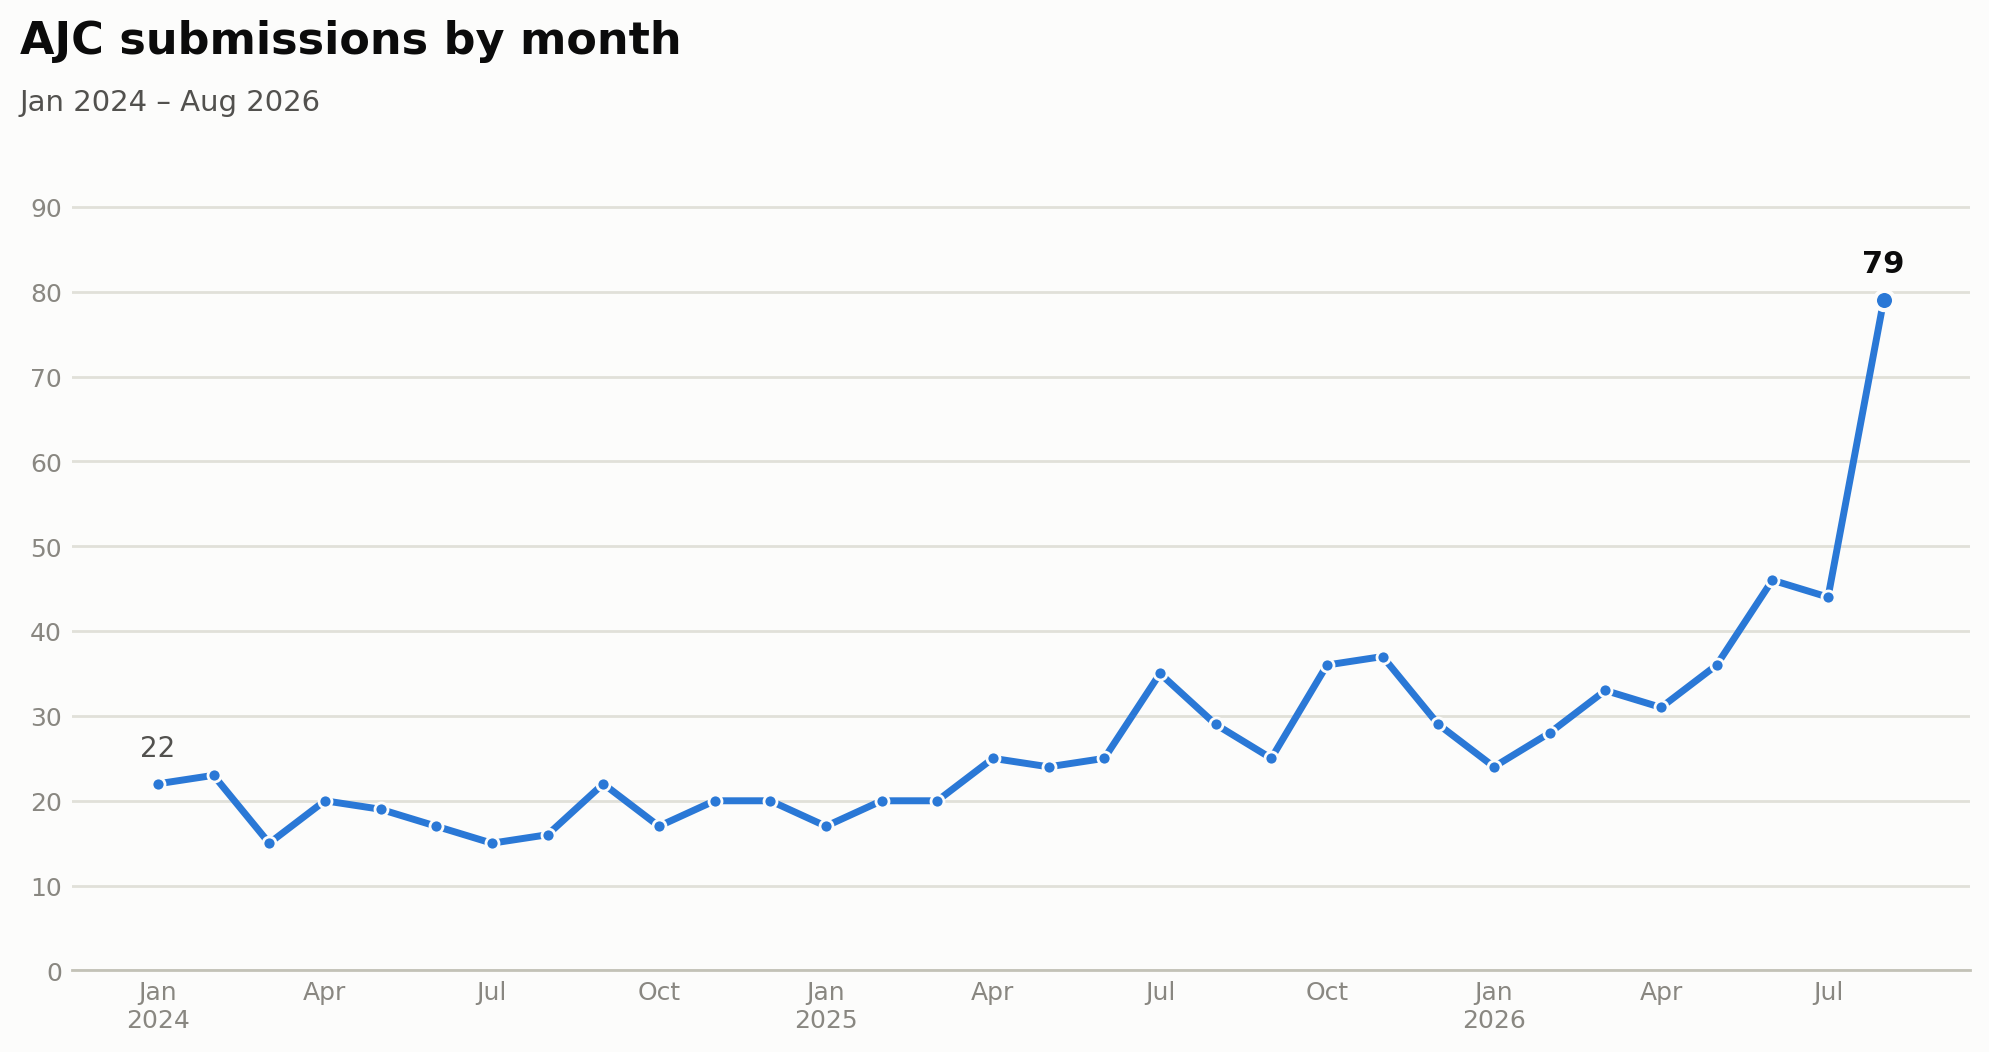
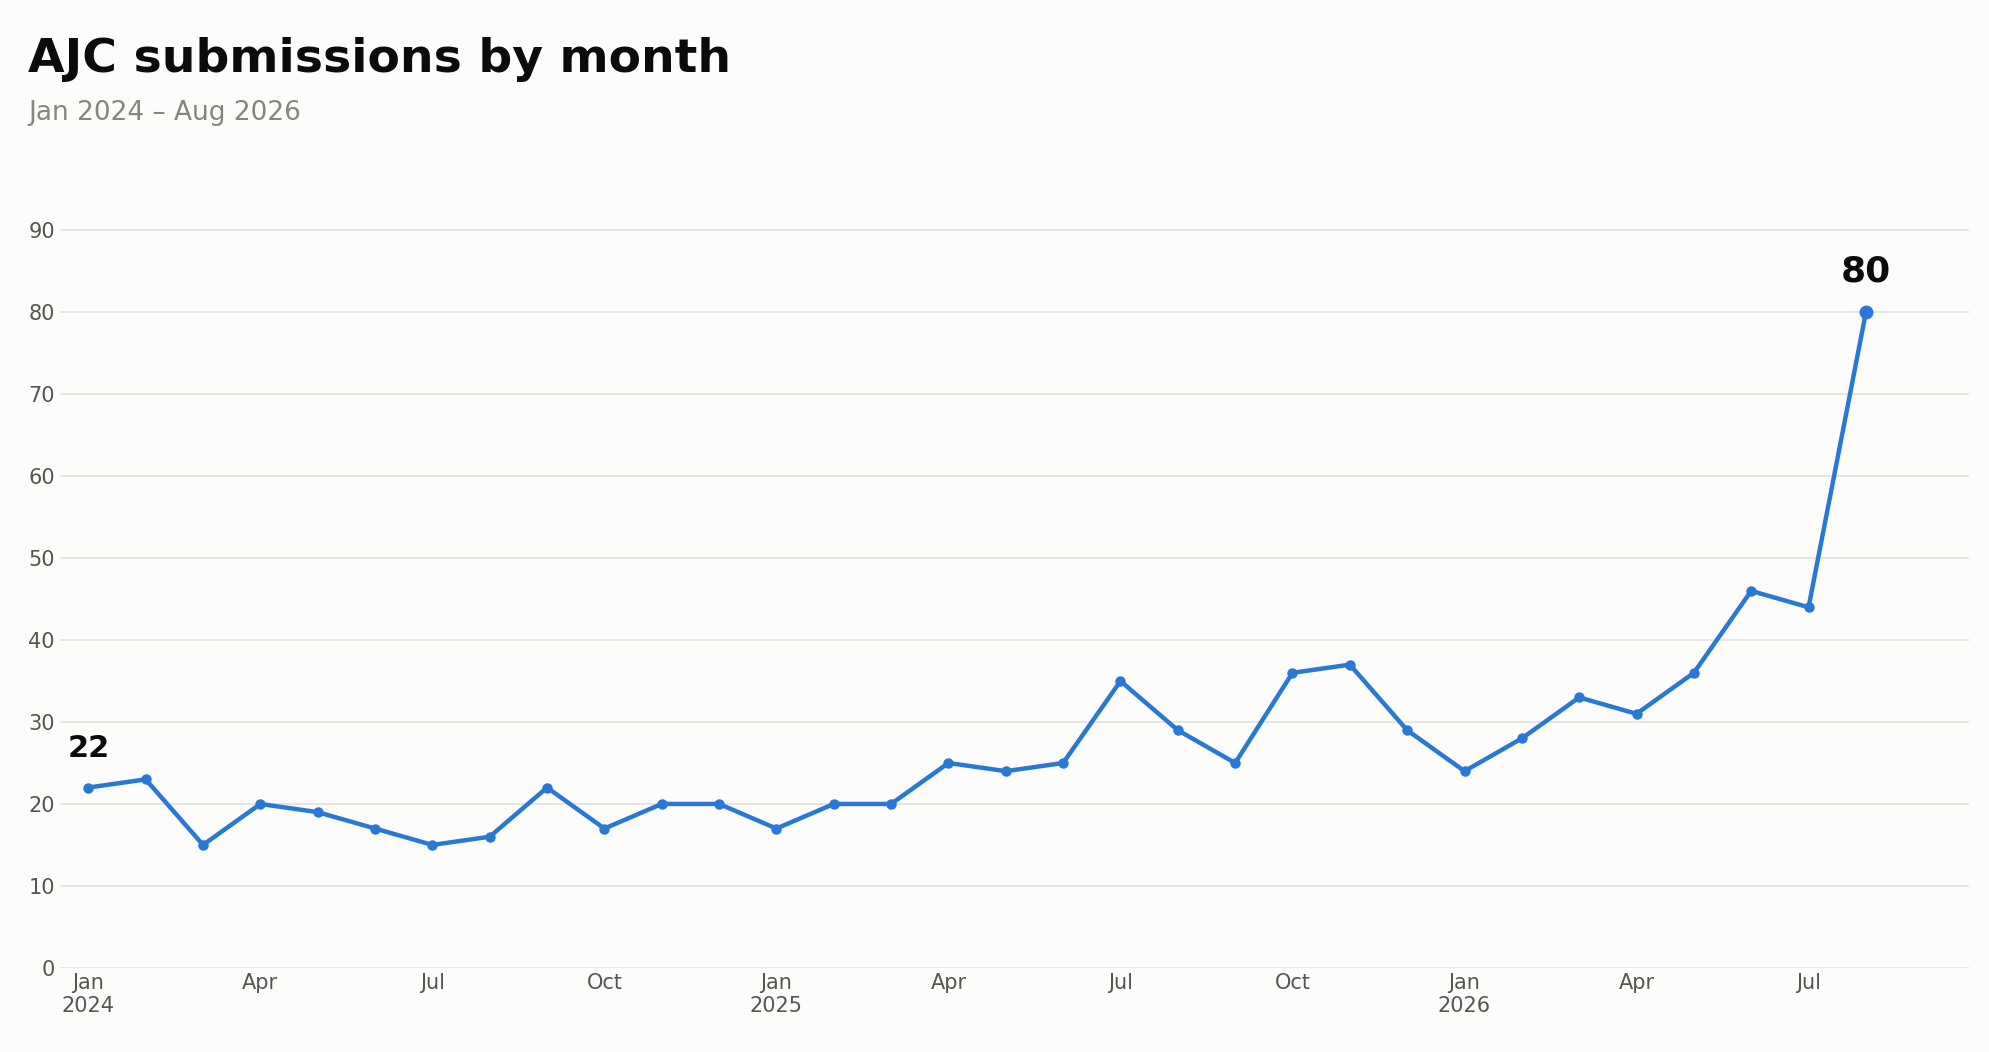
Some wording changes

diff --git a/slides.md b/slides.md
@@ -297,7 +297,7 @@ in case anyone wants to look it up afterward — no need to open it live.
 
 Note:
 Submissions have roughly tripled since the AI-writing surge discussed
-earlier — 79 last month against a 22-46 range for most of the last two
+earlier — 80 last month against a 22-46 range for most of the last two
 and a half years. Genuinely unclear yet whether this settles into a new
 normal or keeps climbing; the question mark in the title is doing real
 work.
@@ -402,7 +402,7 @@ Live in the browser again. Come back for Tintangle.
 ## The Rebuild
 
 - I became an editor-in-chief in early 2022
-- This has been on my **urgent** list since then
+- This has been on my <strong style="color: var(--accent); text-transform: uppercase;">urgent</strong> list since then
 - Several false starts
 - It hasn't been *easy* but it's been possible
 
@@ -436,9 +436,9 @@ Last point is because I view the current designs as a bit generic
 
 ## Mike's final words
 
-- Doing what you already do, just faster, is uninspired and potentially problematic
-- But sometimes necessary
-- If you can, search for dreams blocked only by mechanical obstacles
+- Doing what you already do, but better, is uninspiring and potentially problematic
+- Though sometimes necessary
+- Chase dreams blocked only by mechanical obstacles
 
 ---
 
